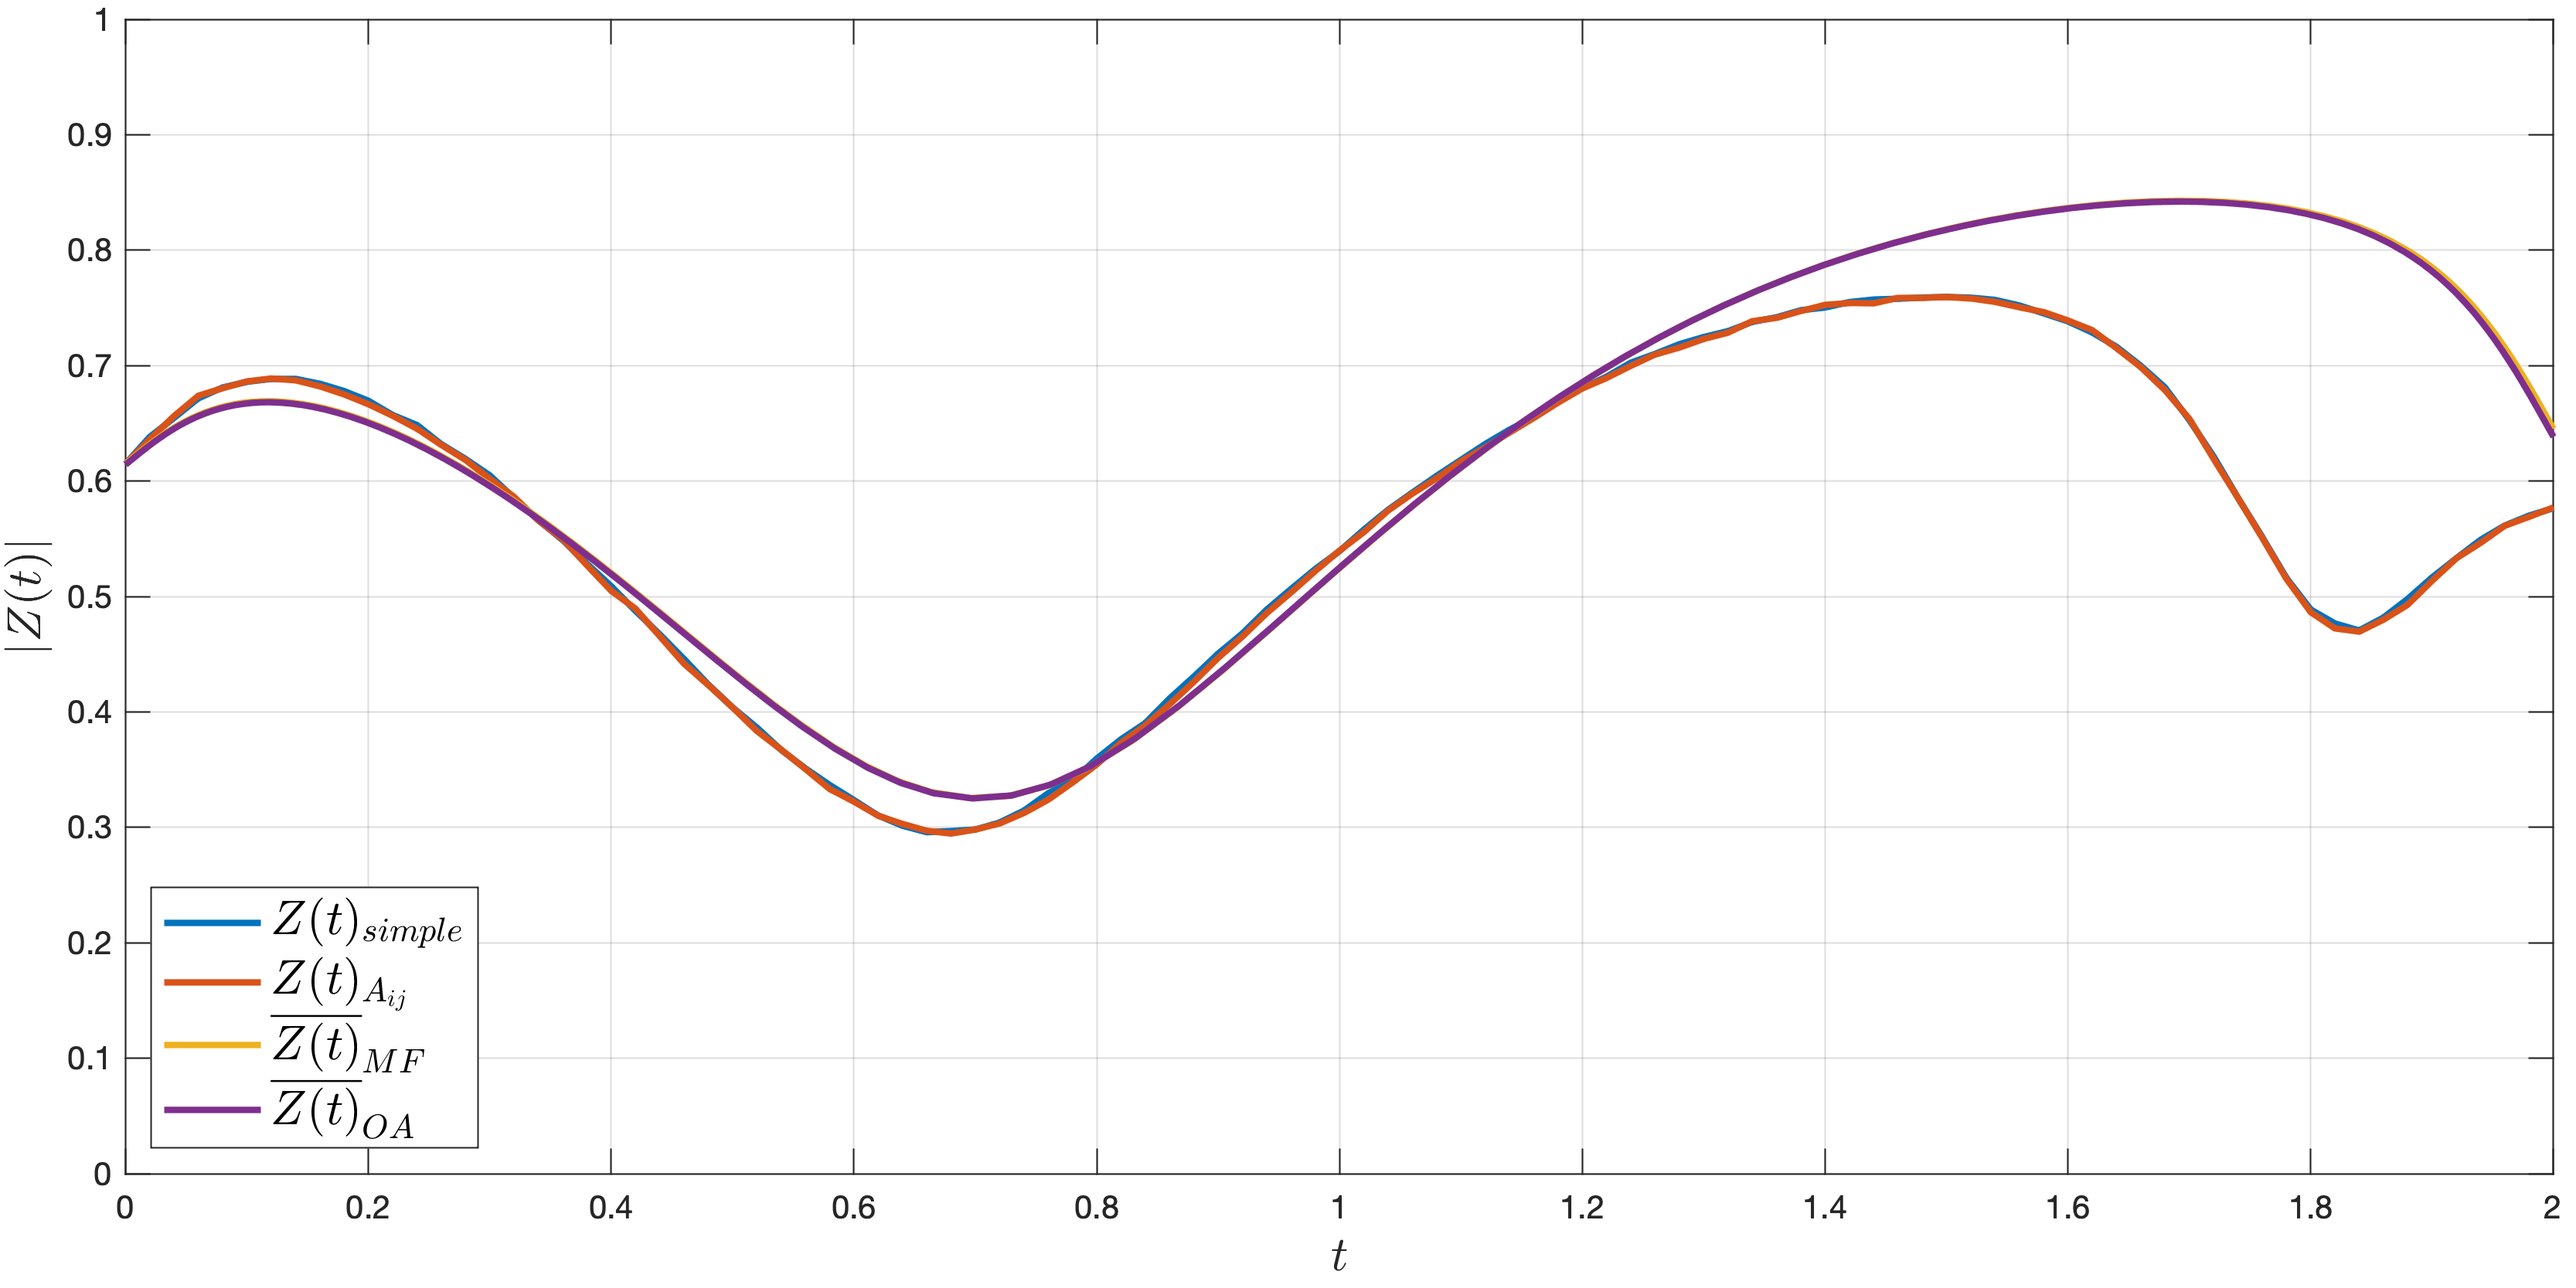
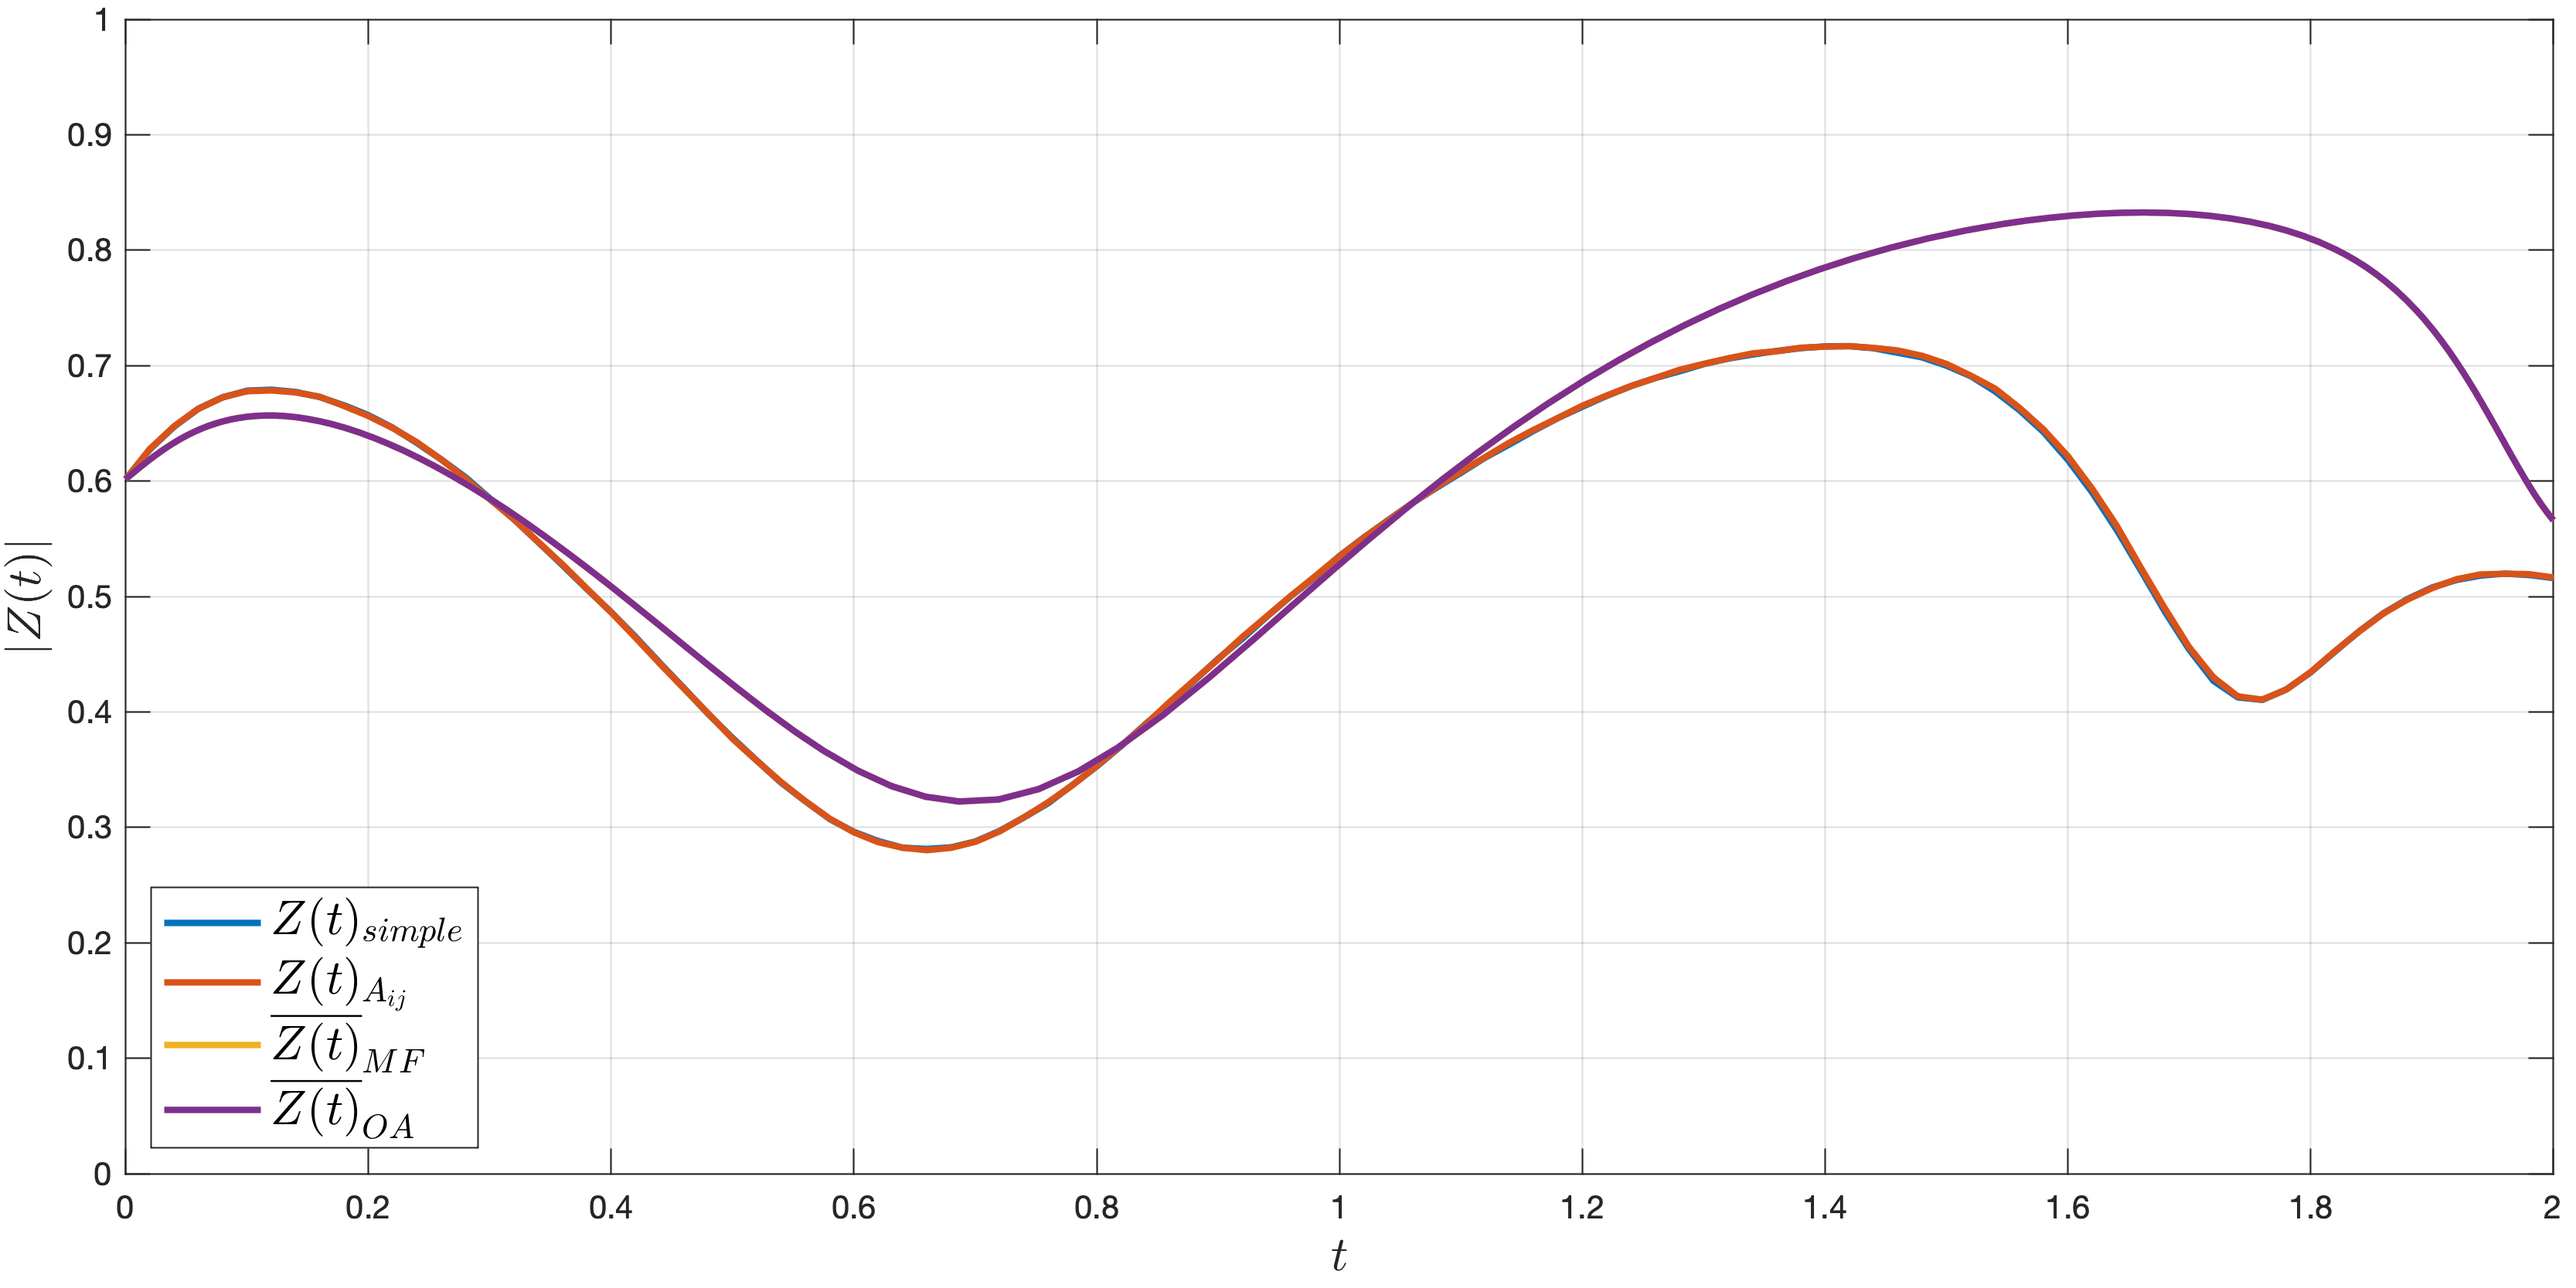
Success for today, al MF descriptions seem to agree

diff --git a/Full scale simulations/Simulate_with_adjacency.m b/Full scale simulations/Simulate_with_adjacency.m
@@ -23,7 +23,7 @@ initarray = make_GPUhandle();
 tnow = 0; tend = 2;
 h = 0.02;
 
-pars.N = 1000;
+pars.N = 5000;
 pars.a_n = 0.666667;
 pars.eta0 = 10.75; pars.delta = 0.5; pars.K = -9;
 seed = 1; rng(seed);
